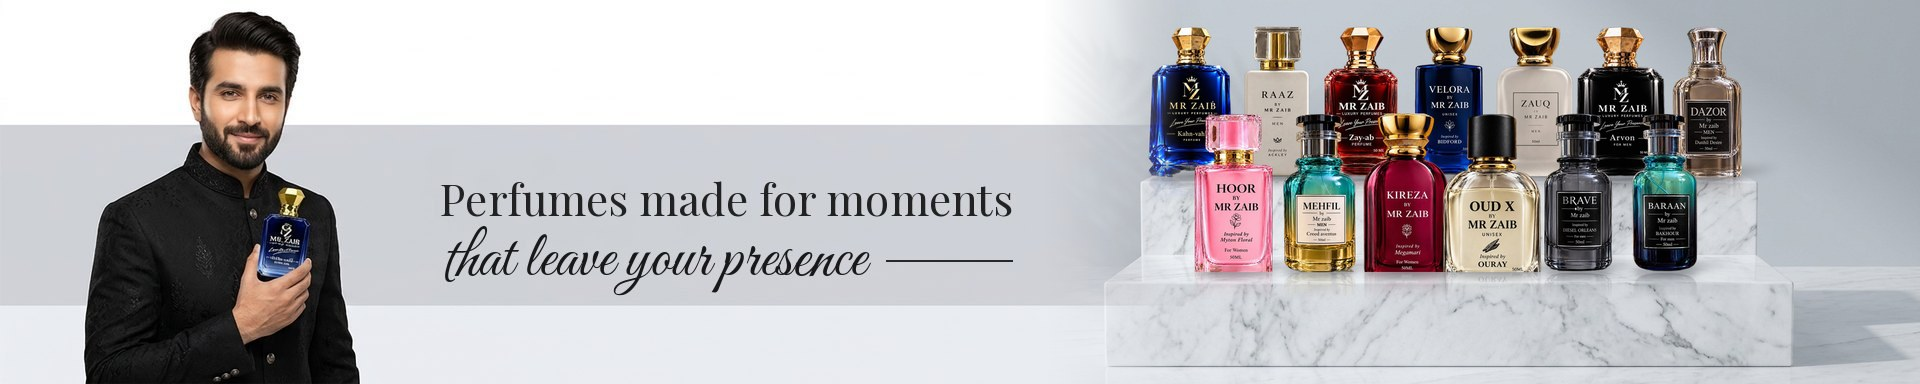
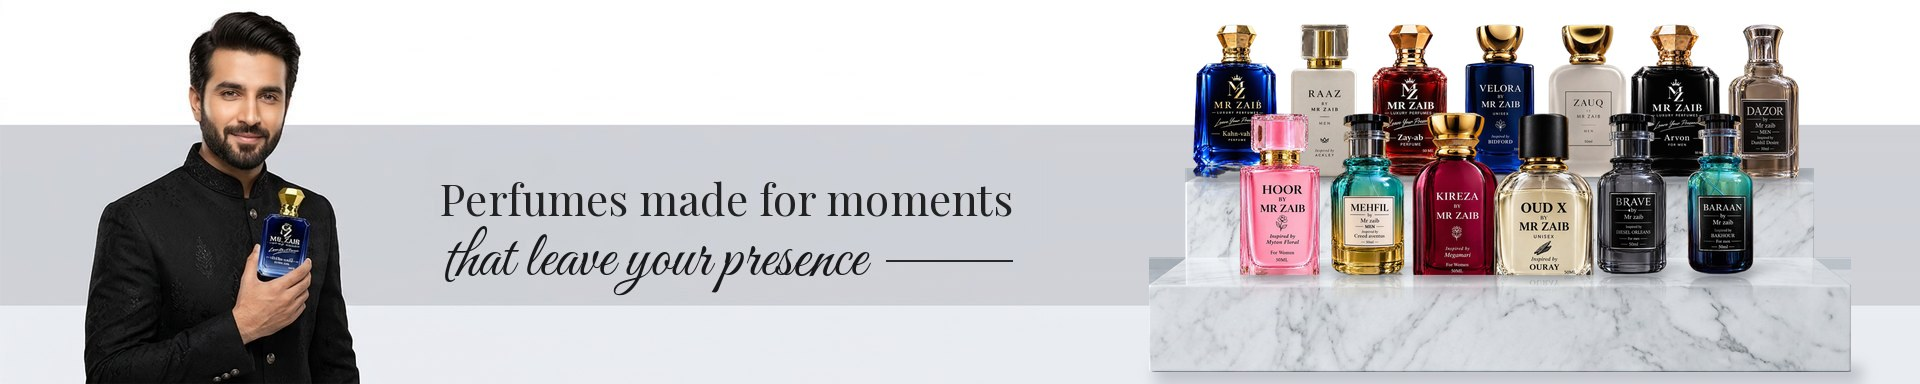
Promo band v7: riser + bottles cut out onto original band background (white top, grey stripe kept)

Changed region(s): [[0.5625, 0.0, 1.0, 1.0], [0.625, 0.8125, 0.6875, 0.9062], [0.6875, 0.8125, 0.7188, 0.8438]]

diff --git a/inc/home-defaults.php b/inc/home-defaults.php
@@ -103,7 +103,7 @@ function mrzaib_video_product( $n ) {
  * as real media (with previews) and can be picked again from Media.
  * Only fields still using the theme default (or empty) are changed.
  */
-define( 'MRZAIB_HOME_MEDIA_V', 6 );
+define( 'MRZAIB_HOME_MEDIA_V', 7 );
 
 function mrzaib_home_media_items() {
 	$items = array();
@@ -117,9 +117,9 @@ function mrzaib_home_media_items() {
 		$items[ 'hero_img_' . $i ] = array( 'assets/images/hero-' . $i . '-desktop.jpg', $d[0], $tag );
 		$items[ 'hero_mob_' . $i ] = array( 'assets/images/hero-' . $i . '-mobile.jpg', $d[1], $tag );
 	}
-	/* Third value = version tag: a new tag imports the updated file again (v6 = 13 bottles on marble riser). */
-	$items['promo_img_d'] = array( 'assets/images/promo-band-desktop.jpg', MRZAIB_URI . '/assets/images/promo-band-desktop.jpg', 'v6' );
-	$items['promo_img_m'] = array( 'assets/images/promo-band-mobile.jpg', MRZAIB_URI . '/assets/images/promo-band-mobile.jpg', 'v6' );
+	/* Third value = version tag: a new tag imports the updated file again (v7 = 13 bottles on marble riser, band background kept). */
+	$items['promo_img_d'] = array( 'assets/images/promo-band-desktop.jpg', MRZAIB_URI . '/assets/images/promo-band-desktop.jpg', 'v7' );
+	$items['promo_img_m'] = array( 'assets/images/promo-band-mobile.jpg', MRZAIB_URI . '/assets/images/promo-band-mobile.jpg', 'v7' );
 	return $items;
 }
 
